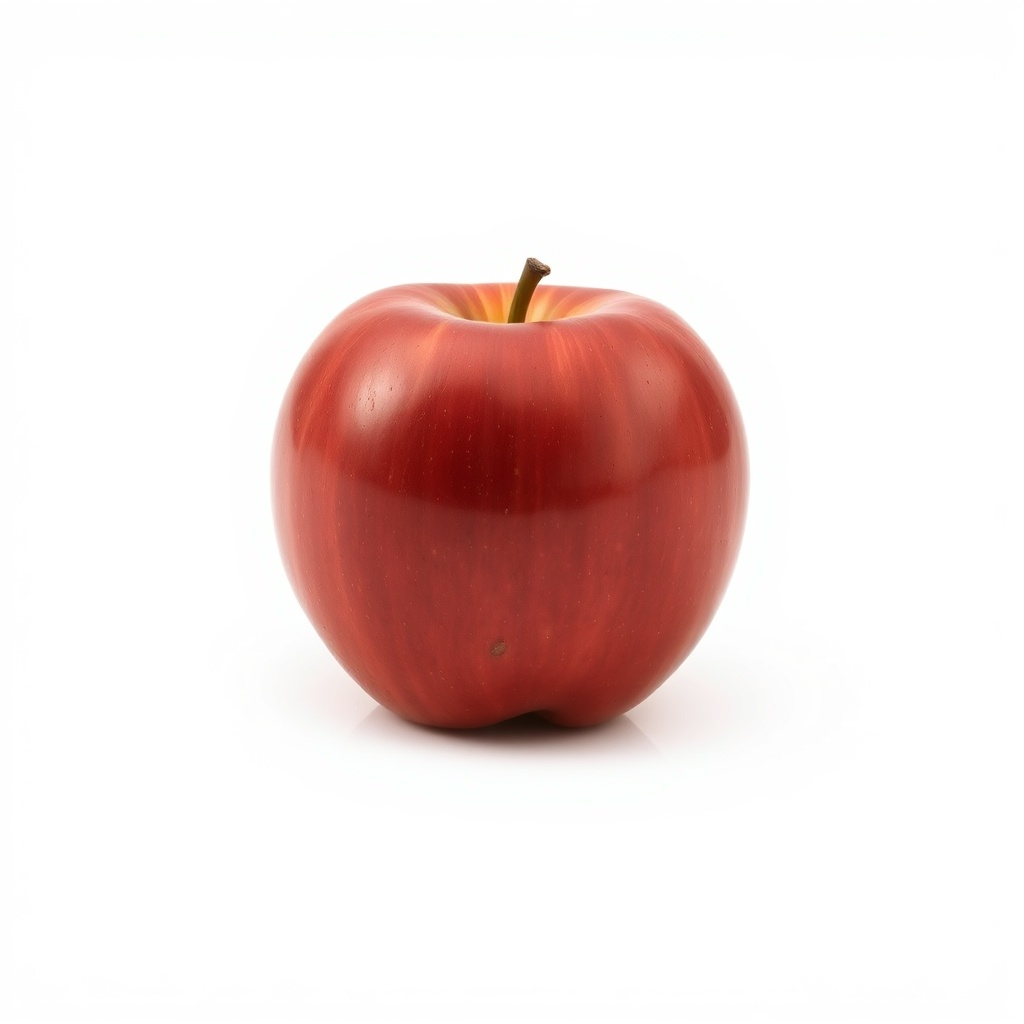
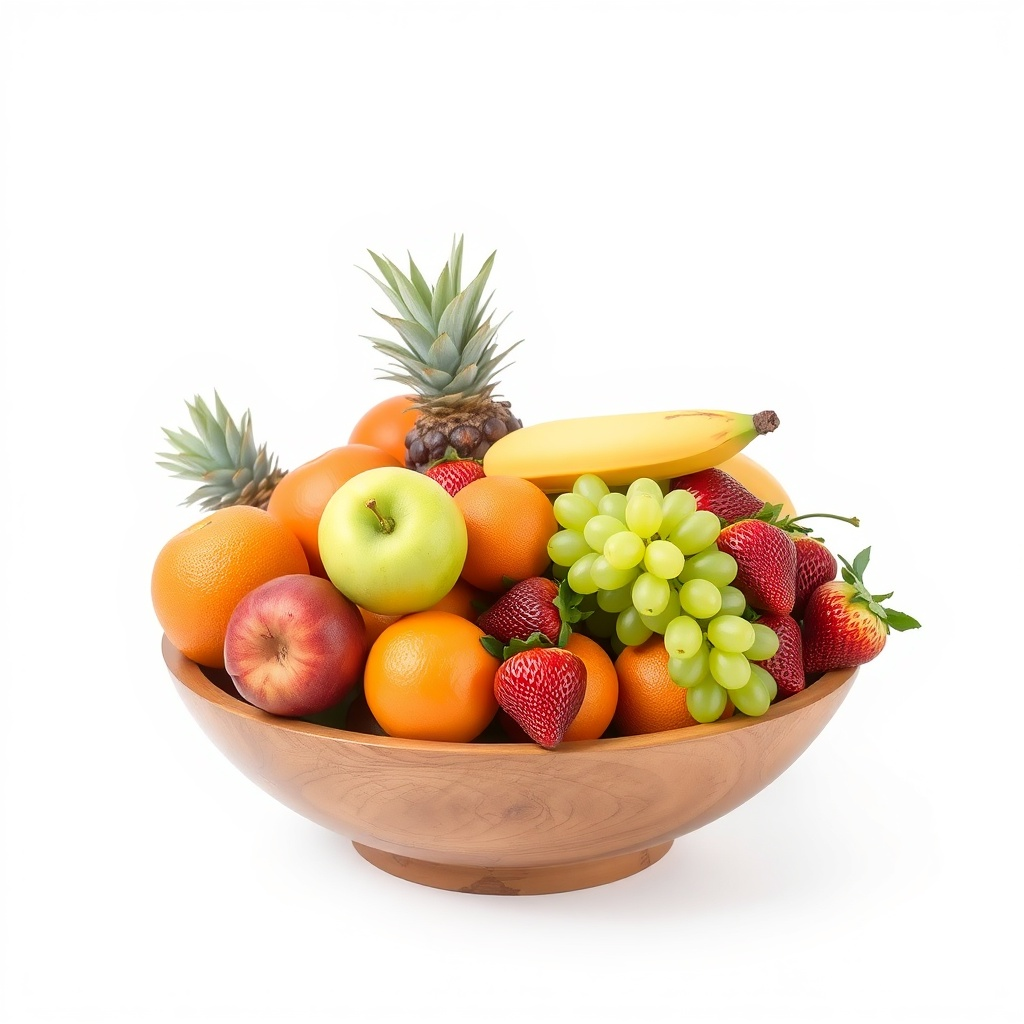
Jogos: encaixe auto-corretivo na apresentação + ajustes ditado/letras
- fitGrid agora mede o tamanho real e encolhe até caber de verdade
  (corrige caça-palavras/cruzadinha estourando em grades grandes; piso
  mínimo de célula reduzido). Testado 18x18 e 20x20 em 1366x768.
- Ditado Visual e Letras Móveis: em apresentação a imagem foi reduzida,
  o conteúdo alinha ao topo e o palco rola se faltar espaço, garantindo
  que "Ver resposta" e "Pular" fiquem sempre acessíveis.
- FRUTA: foto trocada de uma maçã (puxava "MAÇÃ") para uma fruteira
  variada, coerente com a palavra.

diff --git a/public/js/apresentacao.js b/public/js/apresentacao.js
@@ -41,18 +41,38 @@
     var reserveTop = opts.reserveTop || 0;
     var padW = opts.padW != null ? opts.padW : 0.04;
     var padH = opts.padH != null ? opts.padH : 0.06;
+    var min = opts.min || 18, max = opts.max || 300;
     var availW = window.innerWidth * (1 - padW) - (opts.reserveSide || 0);
     var availH = window.innerHeight * (1 - padH) - reserveTop;
+
+    function apply(cell) {
+      grid.style.gridTemplateColumns = 'repeat(' + cols + ',' + cell + 'px)';
+      if (opts.setRows) grid.style.gridTemplateRows = 'repeat(' + rows + ',' + cell + 'px)';
+      grid.style.width = 'max-content';
+      grid.style.margin = '0 auto';
+      grid.style.setProperty('--cell', cell + 'px');
+    }
+
+    // estimativa inicial
     var cell = Math.floor(Math.min(
       (availW - (cols - 1) * gap) / cols,
       (availH - (rows - 1) * gap) / rows
     ));
-    cell = Math.max(opts.min || 42, Math.min(opts.max || 300, cell));
-    grid.style.gridTemplateColumns = 'repeat(' + cols + ',' + cell + 'px)';
-    if (opts.setRows) grid.style.gridTemplateRows = 'repeat(' + rows + ',' + cell + 'px)';
-    grid.style.width = 'max-content';
-    grid.style.margin = '0 auto';
-    grid.style.setProperty('--cell', cell + 'px');
+    cell = Math.max(min, Math.min(max, cell));
+    apply(cell);
+
+    // CORREÇÃO por medição REAL: encolhe até caber de verdade
+    // (cobre erros de estimativa: altura do HUD, bordas, fontes, quebras)
+    for (var it = 0; it < 5; it++) {
+      var r = grid.getBoundingClientRect();
+      if (!r.width || !r.height) break;
+      var factor = Math.min(availW / r.width, availH / r.height);
+      if (factor >= 0.995) break;            // já cabe
+      var next = Math.max(min, Math.floor(cell * factor));
+      if (next >= cell) break;               // não dá pra encolher mais
+      cell = next;
+      apply(cell);
+    }
     return cell;
   }
   function fsEl() {

diff --git a/public/ditado-visual.html b/public/ditado-visual.html
@@ -89,13 +89,16 @@ body{font-family:'Nunito',sans-serif;background:#F3EEFF;min-height:100vh;display
 .aletter.reveal{border-color:#0086a8;background:#e6f6fb;color:#046b86;}
 
 /* ===== MODO APRESENTAÇÃO — ampliação (infra em /css/apresentacao.css) ===== */
-html.apresentando .wphoto{max-width:min(58vw,560px)!important;max-height:42vh!important;}
-html.apresentando .wphoto.eja{max-height:40vh!important;}
+html.apresentando .wphoto{max-width:min(44vw,420px)!important;max-height:26vh!important;}
+html.apresentando .wphoto.eja{max-height:24vh!important;}
 html.apresentando .tbtn{font-size:clamp(14px,1.6vw,22px)!important;}
-html.apresentando .gw{max-width:none!important;background:#FAF7FF!important;}
+html.apresentando .qbox{padding:10px!important;gap:4px!important;}
+/* rolagem de segurança: se o conteúdo passar da tela, dá pra rolar e alcançar os botões */
+html.apresentando .gw{max-width:none!important;background:#FAF7FF!important;overflow-y:auto!important;}
 html.apresentando .hdr{display:none!important;}
 html.apresentando .screen{padding:2vh 4vw!important;}
-html.apresentando .screen.active{flex:1 1 auto!important;display:flex!important;flex-direction:column!important;justify-content:center!important;min-height:0!important;}
+html.apresentando .screen.active{flex:1 1 auto!important;display:flex!important;flex-direction:column!important;justify-content:flex-start!important;min-height:0!important;}
+html.apresentando #home.screen.active{justify-content:center!important;}
 html.apresentando .home-title{font-size:clamp(30px,5vw,60px)!important;}
 html.apresentando .home-sub{font-size:clamp(15px,2.2vw,26px)!important;margin-bottom:3vh!important;}
 html.apresentando .cat-em{font-size:clamp(30px,4vw,56px)!important;}

diff --git a/public/jogo-letras.html b/public/jogo-letras.html
@@ -277,12 +277,15 @@
   .slot.reveal{border-color:#0086a8;background:#e6f6fb;color:#046b86;}
 
   /* ===== MODO APRESENTAÇÃO — ampliação (infra em /css/apresentacao.css) ===== */
-  html.apresentando .wphoto{max-width:min(56vw,540px)!important;max-height:40vh!important;}
+  html.apresentando .wphoto{max-width:min(44vw,420px)!important;max-height:26vh!important;}
   html.apresentando .tbtn{font-size:clamp(14px,1.6vw,22px)!important;}
-  html.apresentando .gw{max-width:none!important;background:#FAF7FF!important;}
+  html.apresentando .qbox{padding:10px!important;gap:4px!important;}
+  /* rolagem de segurança: se o conteúdo passar da tela, dá pra rolar e alcançar os botões */
+  html.apresentando .gw{max-width:none!important;background:#FAF7FF!important;overflow-y:auto!important;}
   html.apresentando .hdr{display:none!important;}
   html.apresentando .screen{padding:2vh 4vw!important;}
-  html.apresentando .screen.active{flex:1 1 auto!important;display:flex!important;flex-direction:column!important;justify-content:center!important;min-height:0!important;}
+  html.apresentando .screen.active{flex:1 1 auto!important;display:flex!important;flex-direction:column!important;justify-content:flex-start!important;min-height:0!important;}
+  html.apresentando #home.screen.active{justify-content:center!important;}
   html.apresentando .home-title{font-size:clamp(30px,5vw,60px)!important;}
   html.apresentando .home-sub{font-size:clamp(15px,2.2vw,26px)!important;}
   html.apresentando .wimg{font-size:clamp(100px,24vh,280px)!important;}

diff --git a/public/interativo.html b/public/interativo.html
@@ -1238,8 +1238,9 @@ if (_urlModo === 'cruz') setMode('cruz');
       if (on) {
         var wHud = document.getElementById('wsHud');
         wsGrid.style.maxWidth = 'none';
-        Apresentacao.fitGrid(wsGrid, +wsGrid.dataset.cols || 0, {
-          gap: 3, min: 38,
+        var wsCols = +wsGrid.dataset.cols || Math.round(Math.sqrt(wsGrid.children.length)) || 0;
+        Apresentacao.fitGrid(wsGrid, wsCols, {
+          gap: 3, min: 20,
           reserveTop: (wHud ? wHud.offsetHeight : 0) + 24,
           reserveSide: Math.min(300, window.innerWidth * 0.22)
         });
@@ -1257,7 +1258,7 @@ if (_urlModo === 'cruz') setMode('cruz');
       if (on) {
         var cHud = document.getElementById('cwHud');
         Apresentacao.fitGrid(cwGrid, cwCols, {
-          gap: 0, min: 30, setRows: true, rows: rows,
+          gap: 0, min: 18, setRows: true, rows: rows,
           reserveTop: (cHud ? cHud.offsetHeight : 0) + 24,
           reserveSide: Math.min(380, window.innerWidth * 0.28)
         });

diff --git a/public/memoria.html b/public/memoria.html
@@ -1088,7 +1088,7 @@ Retorne APENAS JSON válido, sem markdown, sem texto antes ou depois.`,
     var availW = window.innerWidth * 0.96;
     var availH = window.innerHeight * 0.94 - reserveTop;
     var cols = bestCols(n, availW, availH, gap);
-    Apresentacao.fitGrid(grid, cols, { gap: gap, reserveTop: reserveTop, min: 64, max: 240 });
+    Apresentacao.fitGrid(grid, cols, { gap: gap, reserveTop: reserveTop, min: 40, max: 240 });
   });
 })();
 </script>